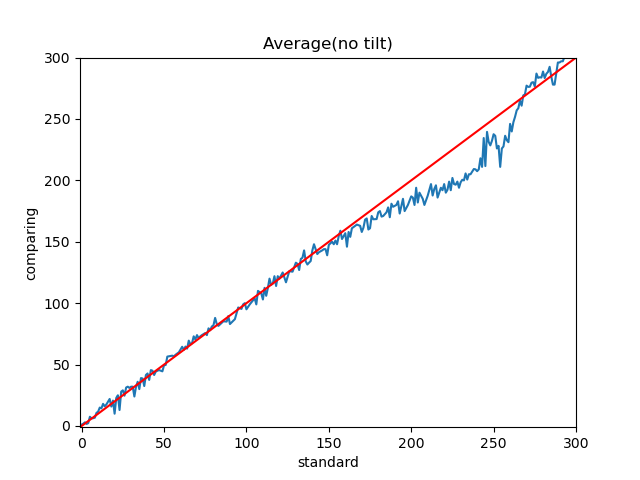
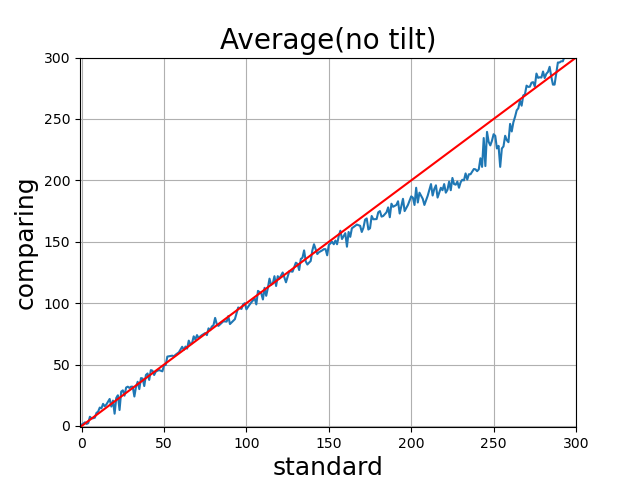
图片更新网格线，大字号标题

diff --git a/datas/data_processing_codes/averaging.py b/datas/data_processing_codes/averaging.py
@@ -2,7 +2,7 @@
 Author: “Vehshanaan” 1959180242@qq.com
 Date: 2023-04-08 12:51:08
 LastEditors: “Vehshanaan” 1959180242@qq.com
-LastEditTime: 2023-04-08 23:14:29
+LastEditTime: 2023-04-09 11:04:21
 FilePath: \Soft-Robotics-Coursework\datas\data_processing_codes\averaging.py
 Description: 
 
@@ -50,19 +50,18 @@ result = np.array(result)
 bottom = result[:, 0]
 top = result[:, 1]
 
-plt.plot(bottom,top)
+plt.plot(bottom, top)
 
 temp = np.arange(3000)
 temp_ = temp
-plt.plot(temp,temp_,"r")
+plt.plot(temp, temp_, "r")
 
-plt.ylabel("comparing")
-plt.xlabel("standard")
+plt.ylabel("comparing", fontsize=18)
+plt.xlabel("standard", fontsize=18)
 
-plt.xlim(-1,300)
-plt.ylim(-1,300)
-
-plt.title("Average(no tilt)")
+plt.xlim(-1, 300)
+plt.ylim(-1, 300)
+plt.grid()
+plt.title("Average(no tilt)", fontsize=20)
 
 plt.show()
-

diff --git a/datas/data_processing_codes/spelrep.py b/datas/data_processing_codes/spelrep.py
@@ -2,7 +2,7 @@
 Author: “Vehshanaan” 1959180242@qq.com
 Date: 2023-04-05 16:26:30
 LastEditors: “Vehshanaan” 1959180242@qq.com
-LastEditTime: 2023-04-08 23:12:53
+LastEditTime: 2023-04-09 11:01:03
 FilePath: \Soft-Robotics-Coursework\datas\data_processing_codes\spelrep.py
 Description: 
 
@@ -57,10 +57,11 @@ plt.plot(temp,temp_,"r")
 plt.xlim(-1,300)
 plt.ylim(-1,300)
 
-plt.ylabel("comparing")
-plt.xlabel("standard")
+plt.ylabel("comparing",fontsize=18)
+plt.xlabel("standard",fontsize=18)
 
-plt.title("Polyfit(no tilt)")
+plt.title("Polyfit(no tilt)",fontsize=20)
+plt.grid() 
 plt.show()
 
 
